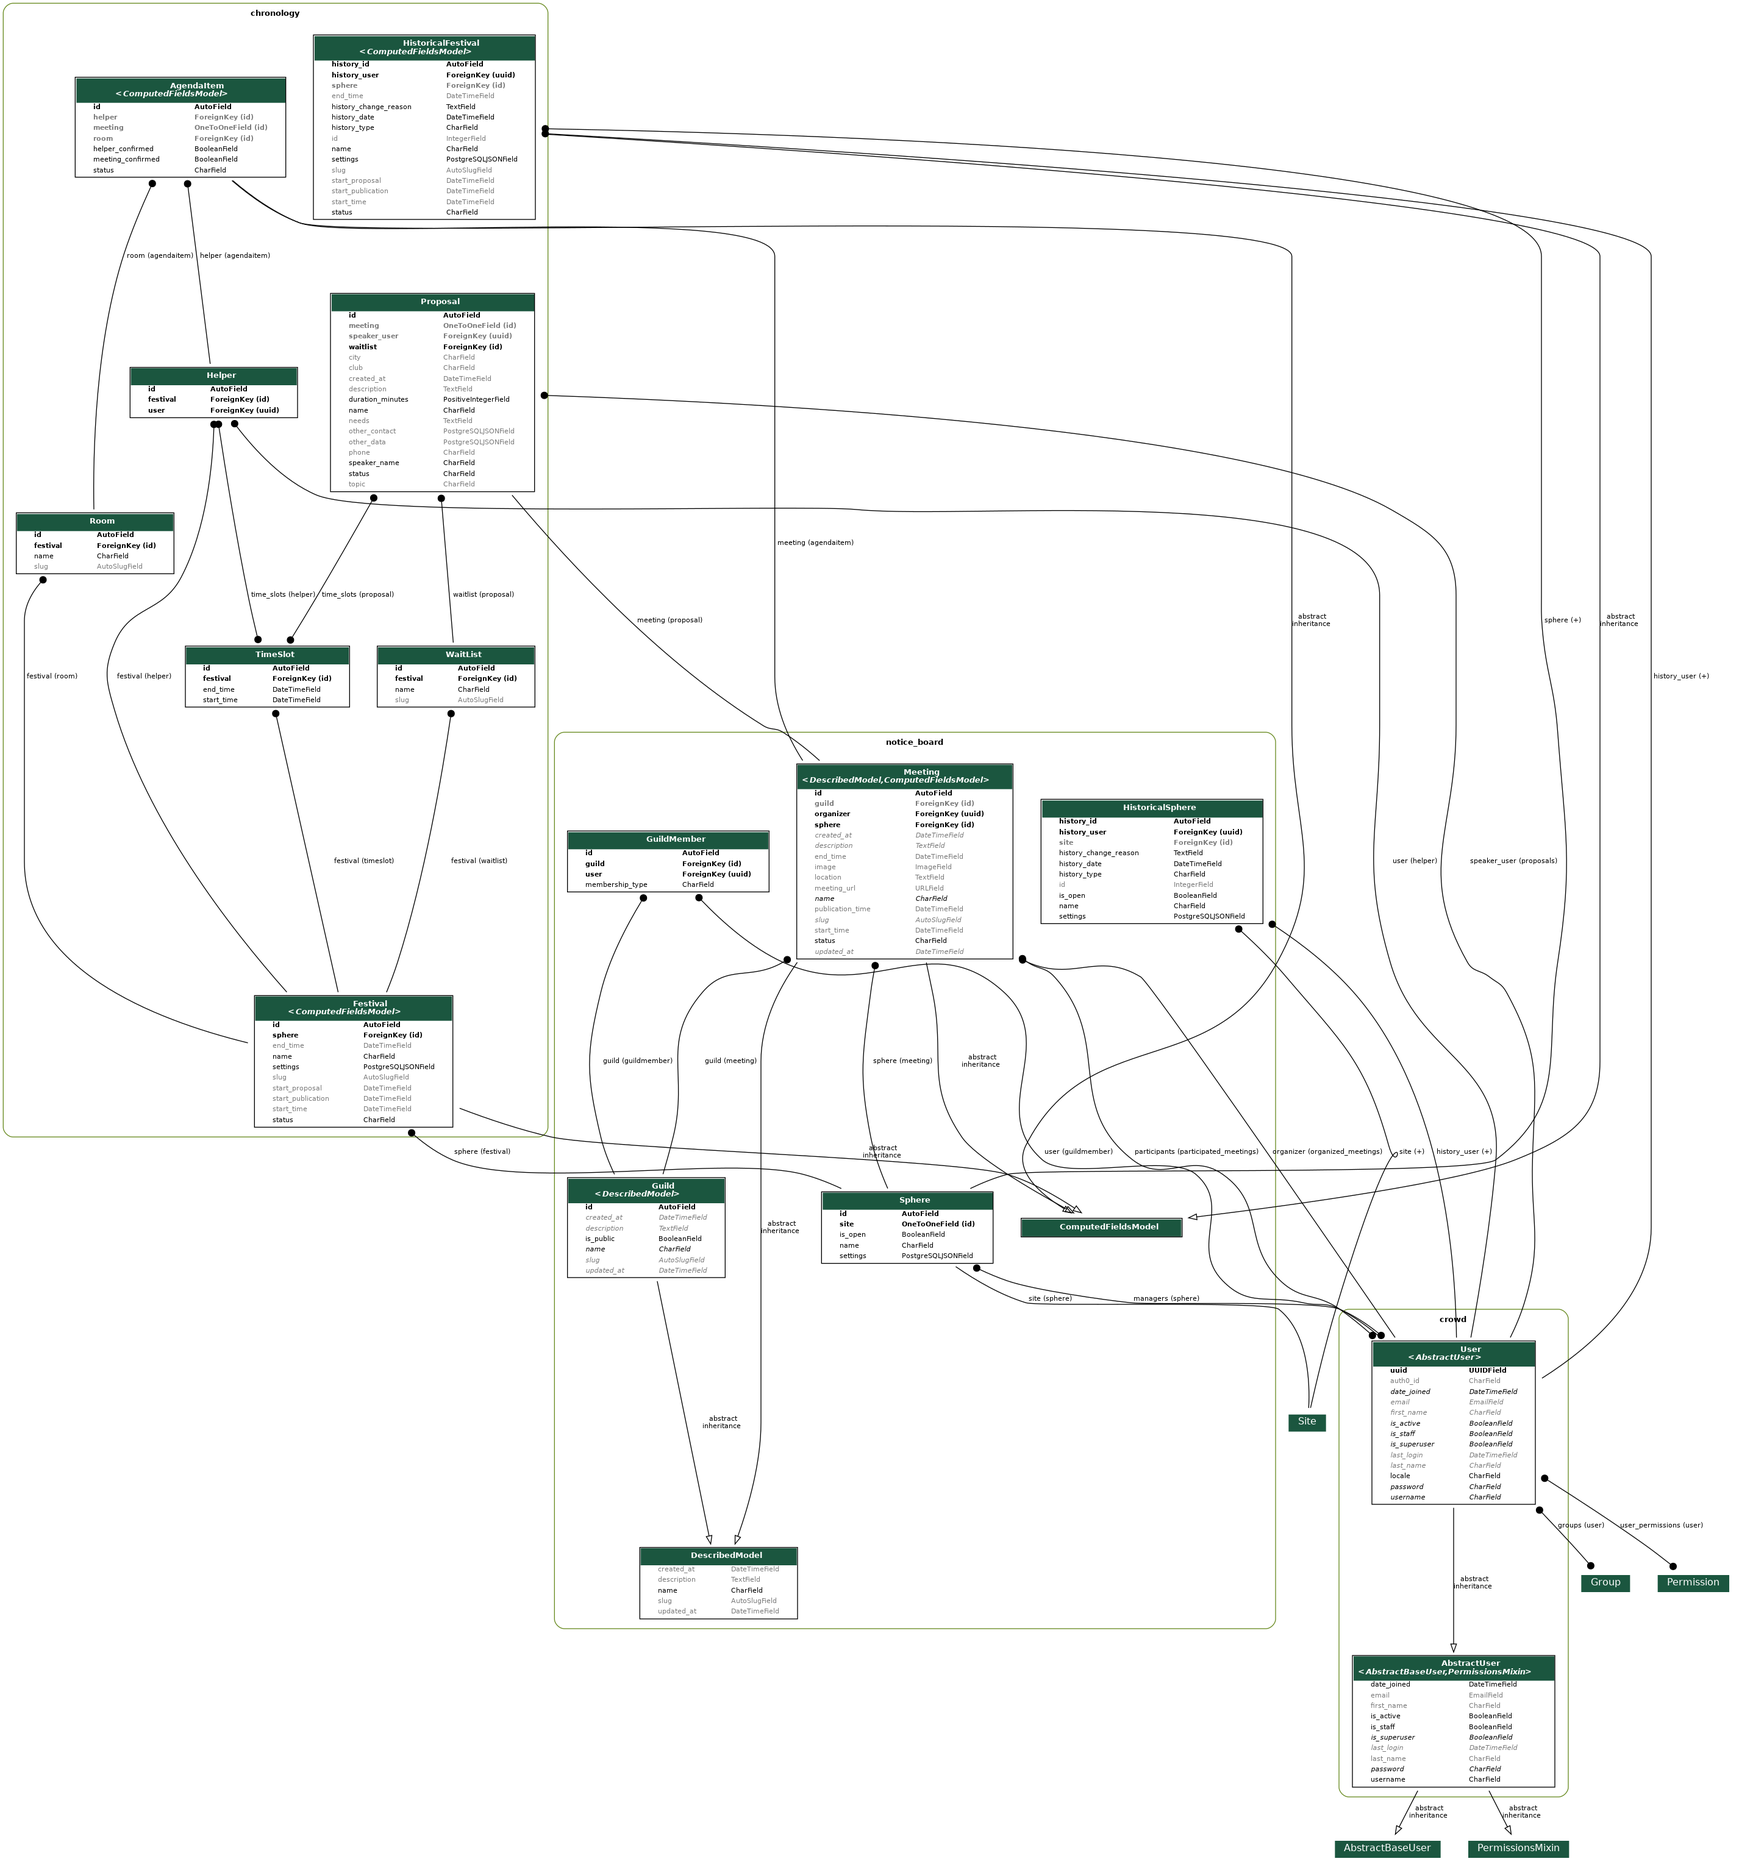
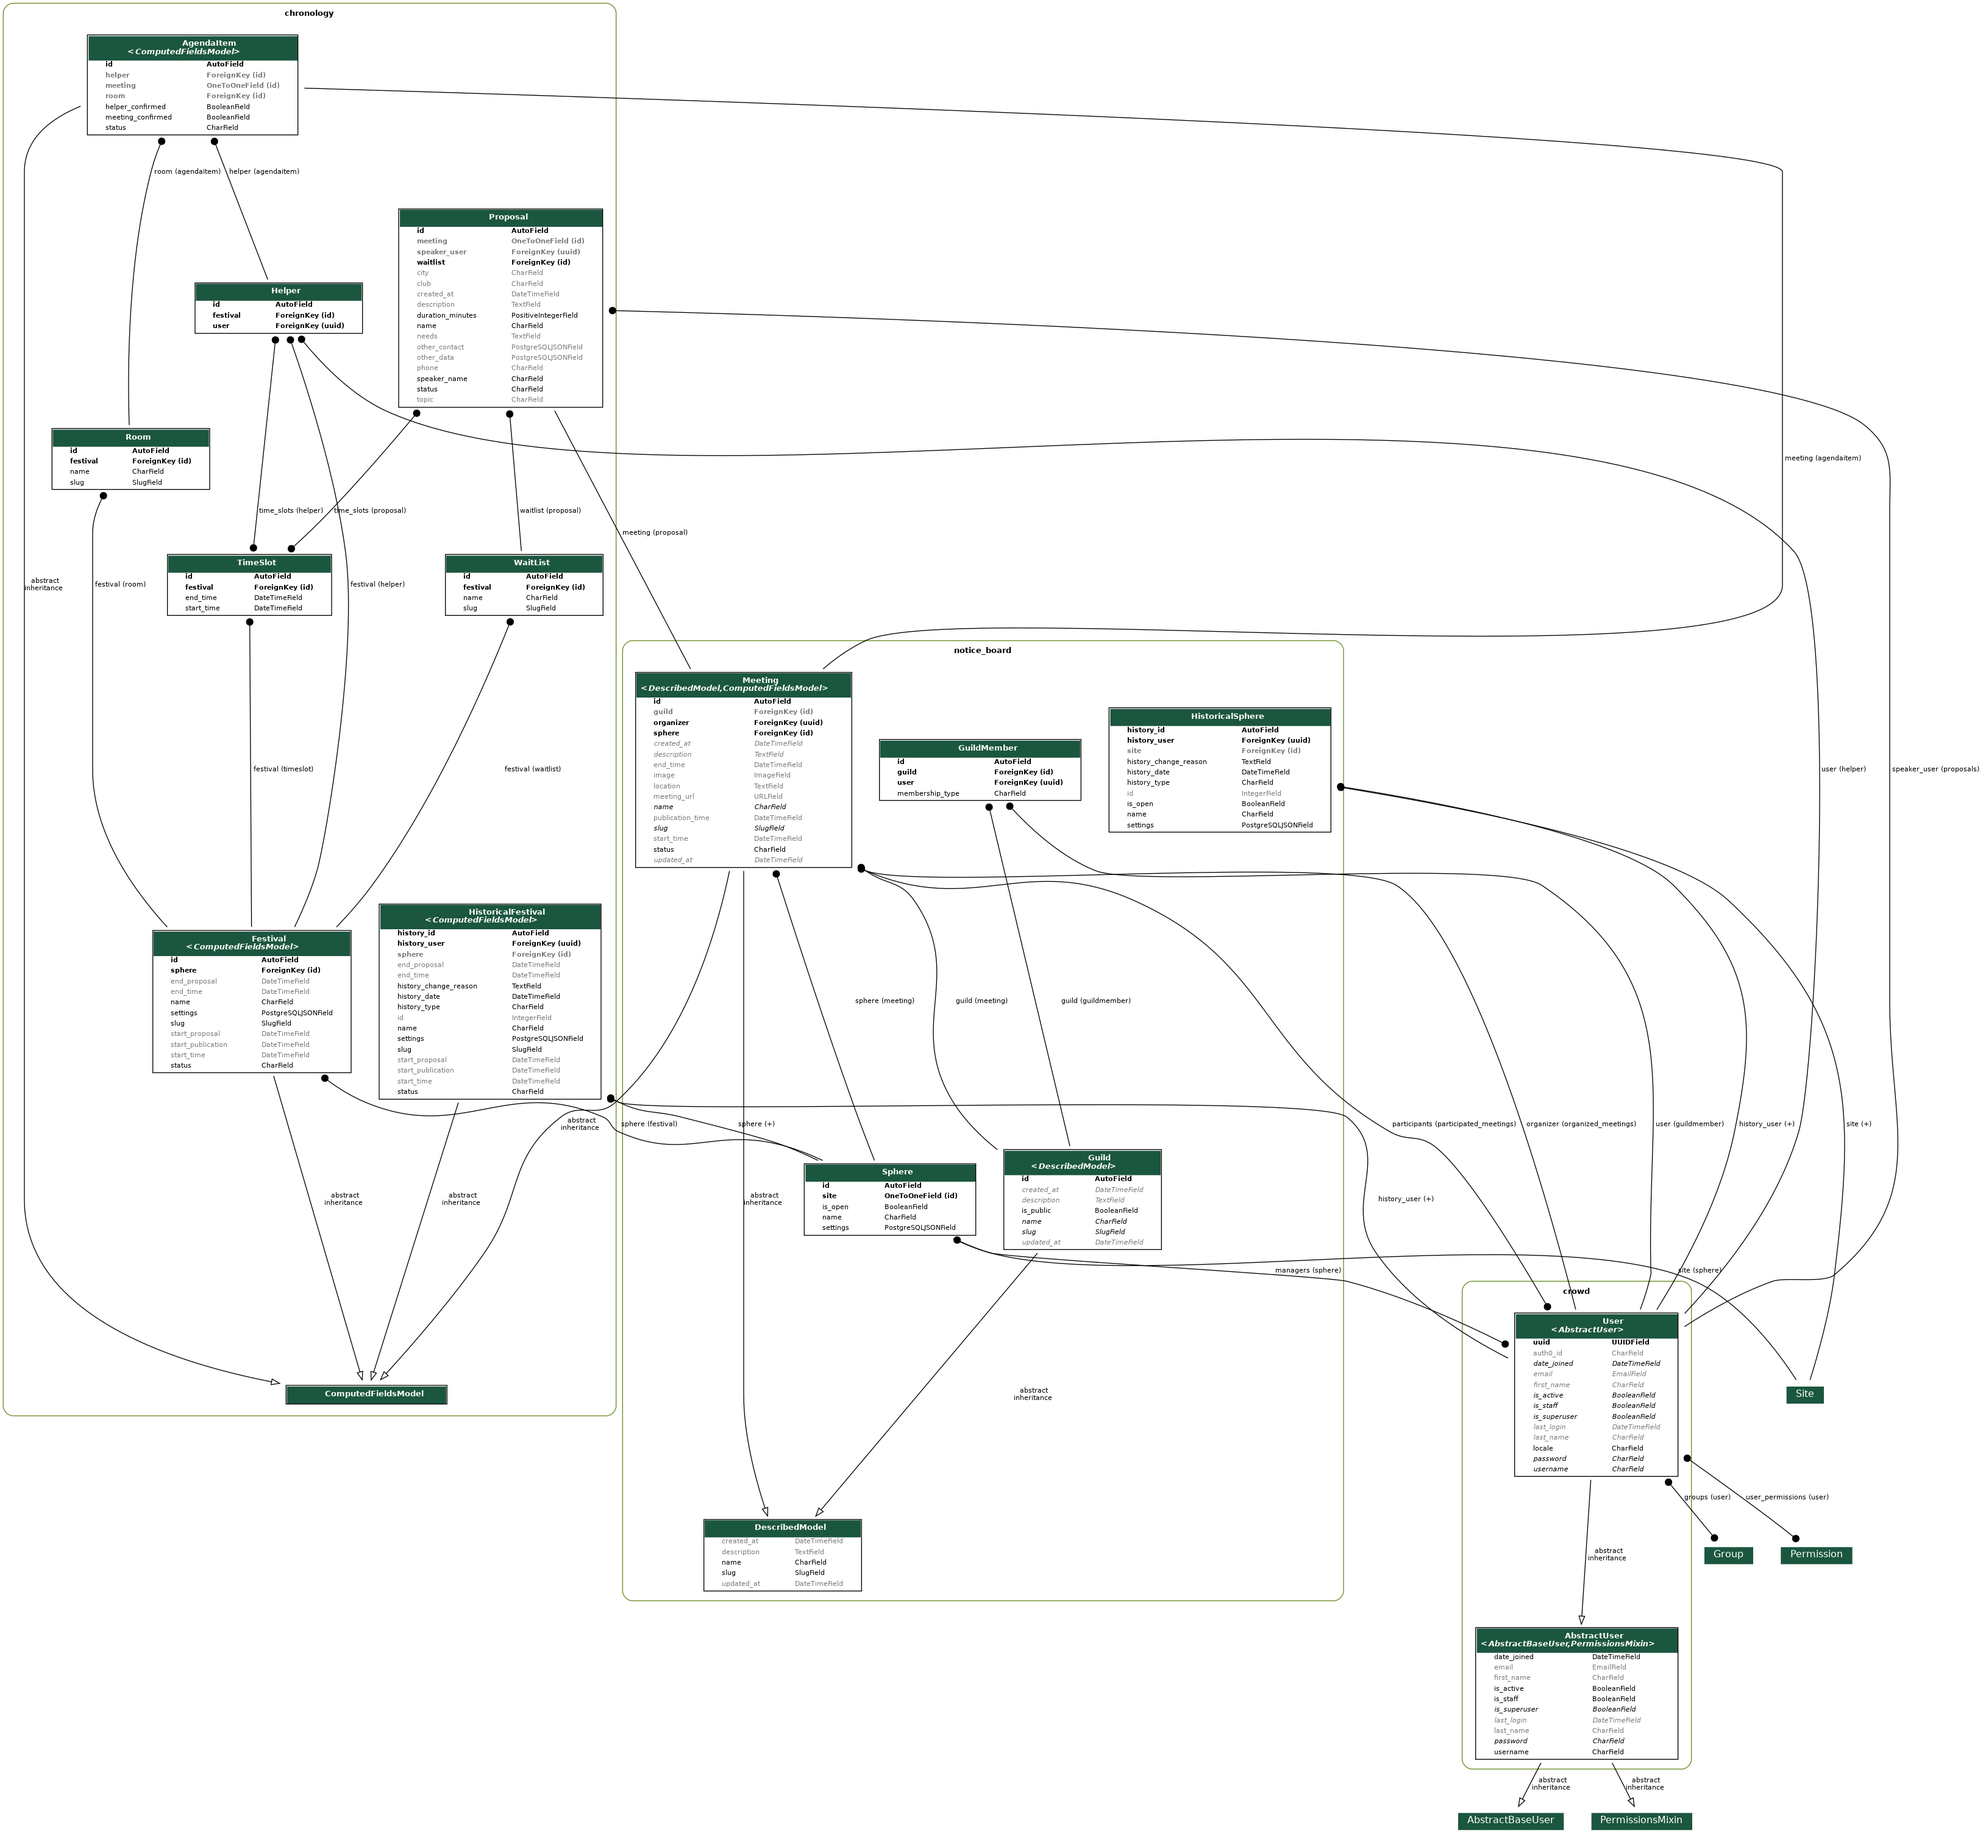
End proposal

diff --git a/app/chronology/models.py b/app/chronology/models.py
@@ -26,6 +26,7 @@ class Festival(ComputedFieldsModel):
     READY = "ready"
     PROPOSAL = "proposal"
     AGENDA = "agenda"
+    AGENDA_PROPOSAL = "agenda_proposal"
     ONGOING = "ongoing"
     PAST = "past"
     STATUS_CHOICES = (
@@ -55,6 +56,9 @@ class Festival(ComputedFieldsModel):
     start_proposal = models.DateTimeField(
         blank=True, null=True, verbose_name=_("start proposal")
     )
+    end_proposal = models.DateTimeField(
+        blank=True, null=True, verbose_name=_("end proposal")
+    )
     start_publication = models.DateTimeField(
         blank=True, null=True, verbose_name=_("start publication")
     )
@@ -70,12 +74,13 @@ class Festival(ComputedFieldsModel):
             models.CheckConstraint(
                 check=Q(
                     start_proposal__isnull=True,
+                    end_proposal__isnull=True,
                     start_publication__isnull=True,
                     start_time__isnull=True,
                     end_time__isnull=True,
                 )
                 | Q(
-                    start_proposal__lte=F("start_publication"),
+                    start_proposal__lte=F("end_proposal"),
                     start_publication__lte=F("start_time"),
                     start_time__lt=F("end_time"),
                 ),
@@ -93,23 +98,28 @@ class Festival(ComputedFieldsModel):
         ],
     )
     def status(self) -> str:
+        status = Festival.DRAFT
         if (
-            not self.start_time
-            or not self.end_time
-            or not self.start_proposal
-            or not self.start_publication
+            self.start_time
+            and self.end_time
+            and self.start_proposal
+            and self.end_proposal
+            and self.start_publication
         ):
-            return Festival.DRAFT
-        now = timezone.now()
-        if now < self.start_proposal:
-            return Festival.READY
-        if now < self.start_publication:
-            return Festival.PROPOSAL
-        if now < self.start_time:
-            return Festival.AGENDA
-        if now < self.end_time:
-            return Festival.ONGOING
-        return Festival.PAST
+            now = timezone.now()
+            if now < self.start_proposal:
+                status = Festival.READY
+            elif now < self.start_publication:
+                status = Festival.PROPOSAL
+            elif now < self.end_proposal:
+                status = Festival.AGENDA_PROPOSAL
+            elif now < self.start_time:
+                status = Festival.AGENDA
+            elif now < self.end_time:
+                status = Festival.ONGOING
+            else:
+                status = Festival.PAST
+        return status
 
 
 class Room(models.Model):

diff --git a/app/chronology/migrations/0019_add_end_proposal_to_festival.py b/app/chronology/migrations/0019_add_end_proposal_to_festival.py
@@ -1,0 +1,32 @@
+# Generated by Django 3.1 on 2020-08-11 17:28
+
+import django.db.models.expressions
+from django.db import migrations, models
+
+
+class Migration(migrations.Migration):
+
+    dependencies = [
+        ('chronology', '0018_add_constraints'),
+    ]
+
+    operations = [
+        migrations.RemoveConstraint(
+            model_name='festival',
+            name='festival_date_times',
+        ),
+        migrations.AddField(
+            model_name='festival',
+            name='end_proposal',
+            field=models.DateTimeField(blank=True, null=True, verbose_name='end proposal'),
+        ),
+        migrations.AddField(
+            model_name='historicalfestival',
+            name='end_proposal',
+            field=models.DateTimeField(blank=True, null=True, verbose_name='end proposal'),
+        ),
+        migrations.AddConstraint(
+            model_name='festival',
+            constraint=models.CheckConstraint(check=models.Q(models.Q(('end_proposal__isnull', True), ('end_time__isnull', True), ('start_proposal__isnull', True), ('start_publication__isnull', True), ('start_time__isnull', True)), models.Q(('start_proposal__lte', django.db.models.expressions.F('end_proposal')), ('start_publication__lte', django.db.models.expressions.F('start_time')), ('start_time__lt', django.db.models.expressions.F('end_time'))), _connector='OR'), name='festival_date_times'),
+        ),
+    ]

diff --git a/app/chronology/admin.py b/app/chronology/admin.py
@@ -48,6 +48,7 @@ class FestivalAdmin(SphereManagersAdminMixin, SimpleHistoryAdmin):
             {
                 "fields": [
                     "start_proposal",
+                    "end_proposal",
                     "start_publication",
                     "start_time",
                     "end_time",
@@ -70,6 +71,7 @@ class FestivalAdmin(SphereManagersAdminMixin, SimpleHistoryAdmin):
         "sphere",
         "status",
         "start_proposal",
+        "end_proposal",
         "start_publication",
         "start_time",
         "end_time",
@@ -78,6 +80,7 @@ class FestivalAdmin(SphereManagersAdminMixin, SimpleHistoryAdmin):
         "sphere",
         "status",
         "start_proposal",
+        "end_proposal",
         "start_publication",
         "start_time",
         "end_time",

diff --git a/tests/factories.py b/tests/factories.py
@@ -65,6 +65,12 @@ class FestivalFactory(factory.DjangoModelFactory):
         end_date="+3d",
         tzinfo=get_default_timezone(),
     )
+    end_proposal = factory.Faker(
+        "date_time_between",
+        start_date="+3d",
+        end_date="+7d",
+        tzinfo=get_default_timezone(),
+    )
     start_publication = factory.Faker(
         "date_time_between",
         start_date="+4d",
